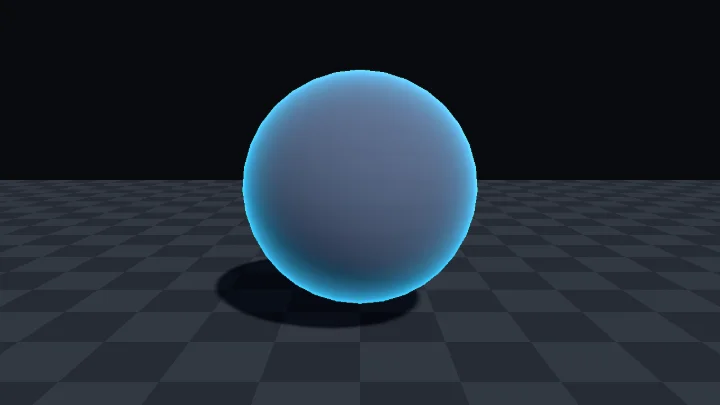
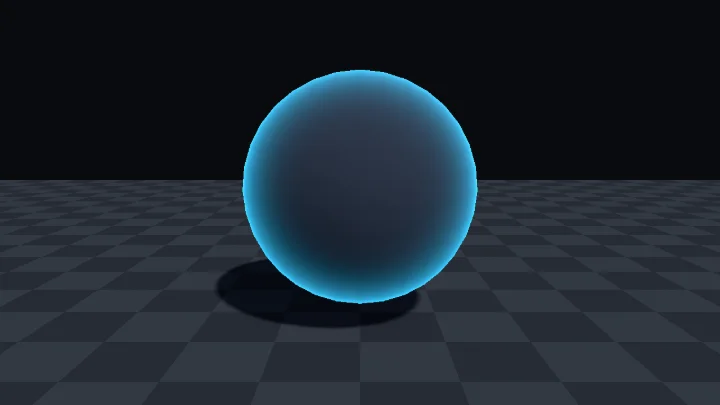
dispatch(pilot-fresnel-fix): 표본 수정: fresnel-rim-glow 리뷰 반영
Dispatch-Job: pilot-fresnel-fix
Dispatch-Profile: org
Dispatch-Model: claude-opus-5-5

Changed region(s): [[0.3361, 0.1481, 0.6722, 0.6815]]

diff --git a/web/src/specimens/fresnel-rim-glow/meta.ts b/web/src/specimens/fresnel-rim-glow/meta.ts
@@ -22,7 +22,7 @@ export const meta: SpecimenMeta = {
     { key: '_RimColor', label: '림 색', type: 'color', default: '#38c8ff' },
     { key: '_RimIntensity', label: '림 세기', type: 'range', min: 0, max: 6, step: 0.05, default: 1.5, hint: '림 색에 곱하는 밝기. 1 보다 크면 HDR 값이라 URP 블룸을 켜면 번진다' },
     { key: '_RimPower', label: '림 지수', type: 'range', min: 0.5, max: 10, step: 0.1, default: 3, hint: '클수록 림이 윤곽 쪽으로 얇아진다. 1 아래면 몸 전체가 은은히 빛난다' },
-    { key: '_BaseColor', label: '기본 색', type: 'color', default: '#56657f', hint: '조명을 받는 표면 색. 어두울수록 림이 도드라진다' },
+    { key: '_BaseColor', label: '기본 색', type: 'color', default: '#2b3342', hint: '조명을 받는 표면 색. 어두울수록 림이 도드라진다. 밝게 하면 림이 표면에 묻힌다' },
     { key: '_HitFlash', label: '번쩍임 강도', type: 'range', min: 0, max: 1, step: 0.01, default: 0, hint: 'C# 에서 피격 순간 1 로 올렸다 내린다. 림이 넓어지고 밝아진다' },
     { key: '_FlashColor', label: '번쩍임 색', type: 'color', default: '#ffffff', hint: '번쩍임 강도가 0 보다 클 때만 보인다' },
   ],
@@ -39,9 +39,13 @@ export const meta: SpecimenMeta = {
       tracks: [{ key: '_HitFlash', frames: [[0, 1], [0.08, 1], [0.4, 0]], ease: 'linear' }],
     },
   ],
-  demo: { fire: [{ event: 'hit', every: 2.4 }] },
+  demo: {
+    // 림 지수를 넓게(1.2) 갔다 얇게(6) 오가며 림 폭 변화를 보여 주고, 사이사이 피격 번쩍임을 넣는다.
+    loops: [{ key: '_RimPower', frames: [[0, 3], [1.8, 1.2], [2.6, 1.2], [4.6, 6], [5.4, 6], [7.2, 3]], ease: 'inOutSine' }],
+    fire: [{ event: 'hit', every: 3.6 }],
+  },
   steps: [
-    { n: 1, label: 'dot(N, V)', body: '법선과 카메라 쪽 방향의 내적이다. 정면을 보는 가운데가 흰색(1)이고 윤곽으로 갈수록 검어진다(0). 구의 모양이 이 값 하나에 다 들어 있다.' },
+    { n: 1, label: 'dot(N, V)', body: '법선과 카메라 쪽 방향의 내적이다. 정면을 보는 가운데가 1 로 가장 밝고, 가장자리로 갈수록 어두워진다. 값은 윤곽 바로 앞에서야 0 쪽으로 빠르게 떨어지므로 몸 대부분은 밝게 보인다. 구의 모양이 이 값 하나에 다 들어 있다.' },
     { n: 2, label: '뒤집기', body: '`1 - dot(N, V)` 로 뒤집으면 윤곽이 흰색이 된다. 이대로는 몸의 절반 가까이가 회색이라 림이라기보다 흐릿한 막이다.' },
     { n: 3, label: '지수로 좁히기', body: '0~1 값을 거듭제곱하면 1 근처만 남고 나머지는 0 으로 빠르게 떨어진다. `_RimPower` 를 올리면 흰 테두리가 얇아진다.' },
     { n: 4, label: '조명에 더하기', body: '기본 색에 조명을 곱한 표면 위에 림 색을 **더한다**. 조명과 곱하지 않으므로 빛이 안 닿는 그늘 쪽 윤곽에서도 림이 남는다. 피격 버튼을 누르면 림이 몸 안쪽까지 넓어진다.' },
@@ -51,8 +55,7 @@ export const meta: SpecimenMeta = {
     { title: '림이 실처럼 가늘거나 거의 안 보인다', body: '카메라 위치 - 표면 위치를 `normalize` 하지 않으면 길이가 카메라 거리만큼이라 내적이 1 을 넘어 잘린다. URP 에서는 `GetWorldSpaceNormalizeViewDir(positionWS)` 를 쓰면 정규화된 값이 나온다. 보간된 법선도 프래그먼트에서 다시 `normalize` 한다.' },
     { title: '물체가 돌면 림이 한쪽으로 쏠린다', body: '오브젝트 공간 법선(`normalOS`)과 월드 공간 시선을 섞어 쓰면 물체가 회전할 때 림이 표면에 붙어 함께 돈다. 법선을 `TransformObjectToWorldNormal` 로 월드 공간으로 바꾼 뒤 내적한다.' },
     { title: '그늘 쪽에서 림이 사라진다', body: '림을 더한 뒤 조명을 곱하면 빛이 안 닿는 쪽 윤곽이 까매진다. 림 라이트는 보통 그늘에서 실루엣을 떼어 내려고 쓴다. `기본 색 × 조명` 을 먼저 구하고 림은 그 위에 더한다.' },
-    { title: '투명 에너지막으로 바꿨더니 뒤 물체가 사라진다', body: '이 셰이더는 불투명이다. 에너지막처럼 가운데를 비우려면 알파에 림 값을 넣고 `Blend SrcAlpha OneMinusSrcAlpha`(또는 더하기 `Blend SrcAlpha One`), `ZWrite Off`, `"Queue" = "Transparent"` 로 바꾸고 `ShadowCaster` 패스를 뺀다. 그대로 두면 깊이를 차지해 뒤가 가려지고 바닥에 꽉 찬 그림자가 남는다. [역장 교차](#/s/force-field-intersection) 의 래퍼가 그 형태다.' },
-    { title: '번쩍임이 눈을 찌른다', body: '번쩍일 때 림이 몸 전체로 넓어진다. 연타나 연속 피격에서 넓은 면이 빠르게 깜빡이면 광과민 발작 위험이 있다. `RimHitFlash` 의 `minInterval` 이 초당 3회를 넘지 않게 막는다.' },
+    { title: '에너지막처럼 가운데를 비우려 했는데 반투명이 되지 않는다', body: '이 셰이더는 불투명용이라 알파만 바꿔서는 반투명이 되지 않는다. 다섯 곳을 함께 고친다. (1) `core.hlsl` 마지막 `return` 의 알파 `1.0` 을 림 값 `saturate(strength * rim)` 으로 바꾼다. (2) `.shader` 의 Forward 패스에서 `clip(c.a - 0.5);` 를 지우고 `return float4(c.rgb, 1.0);` 를 `return c;` 로 바꾼다. 남겨 두면 가운데가 반투명이 아니라 딱 잘린 구멍이 되거나 그대로 불투명하다. (3) Forward 패스의 `Tags` 줄 아래에 `Blend SrcAlpha OneMinusSrcAlpha`(빛을 더하는 느낌이면 `Blend SrcAlpha One`)와 `ZWrite Off` 를 넣는다. `ZWrite` 를 켜 두면 뒤에 있는 다른 투명 물체가 가려진다. (4) `SubShader` 의 `Tags` 에서 `"Queue"` 를 `"Transparent"`, `"RenderType"` 을 `"Transparent"` 로 바꾼다. (5) `ShadowCaster` 패스를 지운다. 남기면 바닥에 꽉 찬 그림자가 생긴다. `DepthOnly`, `DepthNormals` 패스도 투명 물체에는 쓰이지 않으므로 함께 지워 Forward 패스 하나만 남긴다.' },
   ],
   unity: {
     setup: [
@@ -64,10 +67,10 @@ export const meta: SpecimenMeta = {
     verify: '림 지수를 올리면 윤곽의 빛이 얇아지고 낮추면 몸 안쪽까지 번진다. 물체나 카메라를 돌려도 림은 항상 화면에서 본 윤곽에 붙어 있다.',
     pitfalls: [
       '이 셰이더는 불투명 3D 메시용이다. 패스가 `UniversalForwardOnly` 라 2D Renderer 에서는 그려지지 않는다. 3D 프로젝트에서 쓴다.',
-      'XR 에서는 눈마다 카메라 위치가 다르다. 래퍼가 `GetWorldSpaceNormalizeViewDir` 로 눈별 시선을 구하므로 그대로 쓰면 된다. 카메라 앞 방향 하나를 모든 픽셀의 시선으로 쓰면 양쪽 눈의 림이 어긋난다.',
+      'XR 에서는 두 눈의 카메라 위치가 다르다. 이 셰이더는 안에서 `GetWorldSpaceNormalizeViewDir` 로 눈마다 시선을 계산하므로 양쪽 림이 맞는다. 시선을 바꾸려고 C# 에서 `Camera.main.transform.position` 같은 카메라 위치 하나를 전역 값으로 넘겨 쓰면 두 눈이 같은 위치를 쓰게 되어 양쪽 림이 어긋난다. 시선은 셰이더 안에서 구한다.',
       '평평한 면만 있는 메시(큐브, 로우폴리)는 면 안에서 법선이 같아 림이 면 단위로 통째로 켜지고 꺼진다. 부드러운 법선을 가진 메시에서 잘 보인다.',
       '림 세기가 1 을 넘어도 URP Volume 의 Bloom 이 없으면 색이 하얗게 잘릴 뿐 번지지 않는다.',
-      '이 셰이더 그대로는 불투명이다. 에너지막처럼 가운데를 비우려면 알파에 림 값을 넣고 `Blend SrcAlpha OneMinusSrcAlpha`, `ZWrite Off`, `"Queue" = "Transparent"` 로 바꾼 뒤 `ShadowCaster` 패스를 뺀다.',
+      '번쩍일 때 림이 몸 전체로 넓어진다. 연타나 연속 피격에서 넓은 면이 빠르게 깜빡이면 광과민 발작 위험이 있다. `RimHitFlash` 는 `minInterval`(0.34초)로 게임 배속과 상관없이 실제 시간 기준 초당 3회를 넘지 않게 막는다. 이 값을 0.34 아래로 낮추지 않는다.',
     ],
     graph: 'Shader Graph 에는 같은 식의 Fresnel Effect 노드가 있다. Power 에 림 지수를 넣고 결과에 림 색과 세기를 곱해 Lit 타깃의 Emission 에 연결하면 된다. Custom Function 이 필요 없다.',
   },

diff --git a/Assets/Shaders/fresnel-rim-glow/RimHitFlash.cs b/Assets/Shaders/fresnel-rim-glow/RimHitFlash.cs
@@ -11,10 +11,11 @@ namespace ShaderGallery.Samples
 
         [SerializeField] float holdSeconds = 0.08f;
         [SerializeField] float fadeSeconds = 0.32f;
-        // 번쩍일 때 림이 몸 전체로 넓어지므로 1 초에 3 번을 넘지 않게 막는다.
+        // 번쩍일 때 림이 몸 전체로 넓어지므로 실제 시간으로 1 초에 3 번을 넘지 않게 막는다.
         [SerializeField] float minInterval = 0.34f;
 
         Material material;
+        // Time.unscaledTime 기준. Time.time 으로 세면 Time.timeScale 을 올렸을 때 실제로는 초당 3 번을 넘는다.
         float lastFlashTime = float.NegativeInfinity;
 
         void Awake()
@@ -27,14 +28,20 @@ namespace ShaderGallery.Samples
         /// <summary>
         /// 피격 판정이 난 순간에 호출한다. 인자가 없어 Inspector 의 UnityEvent
         /// (예: XR Simple Interactable 의 Select Entered, 체력 컴포넌트의 피격 이벤트)에 바로 연결할 수 있다.
+        /// 오브젝트나 컴포넌트가 꺼져 있으면 아무 일도 하지 않는다.
         /// </summary>
         public void Flash()
         {
-            if (Time.time - lastFlashTime < minInterval)
+            // 꺼진 오브젝트에서는 StartCoroutine 이 오류를 낸다.
+            if (!isActiveAndEnabled)
             {
                 return;
             }
-            lastFlashTime = Time.time;
+            if (Time.unscaledTime - lastFlashTime < minInterval)
+            {
+                return;
+            }
+            lastFlashTime = Time.unscaledTime;
             StopAllCoroutines();
             StartCoroutine(Animate());
         }
